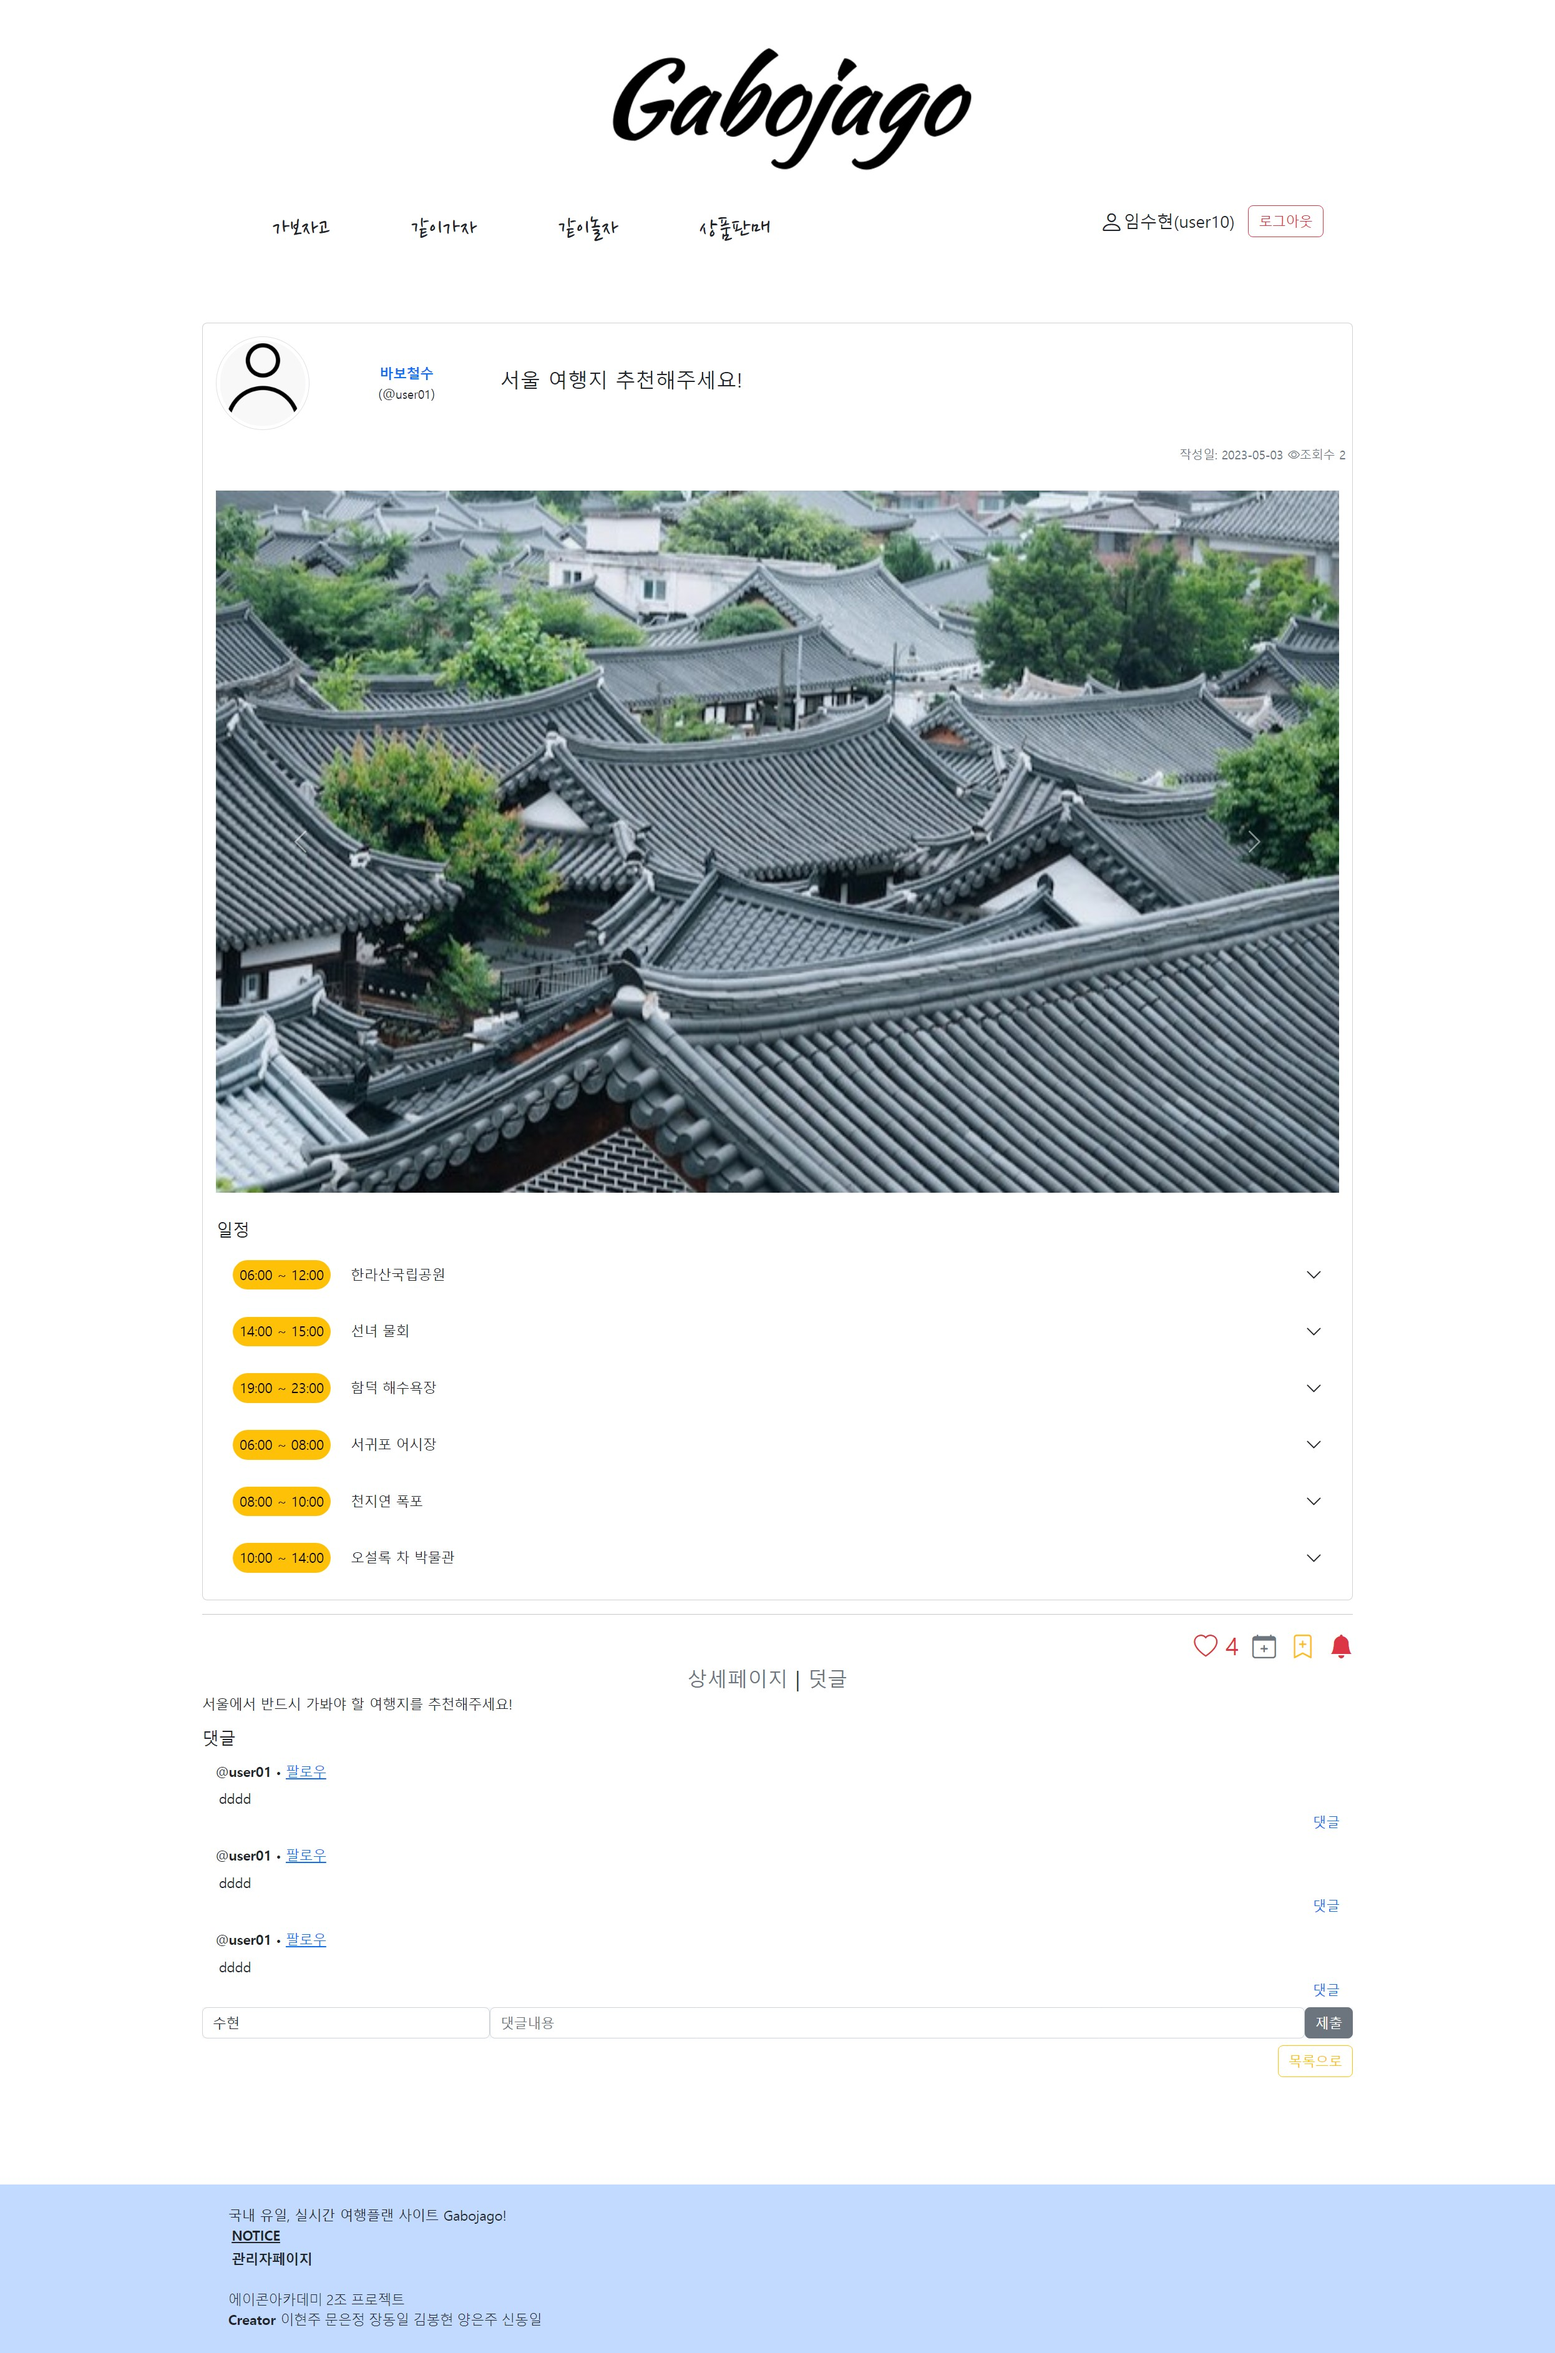
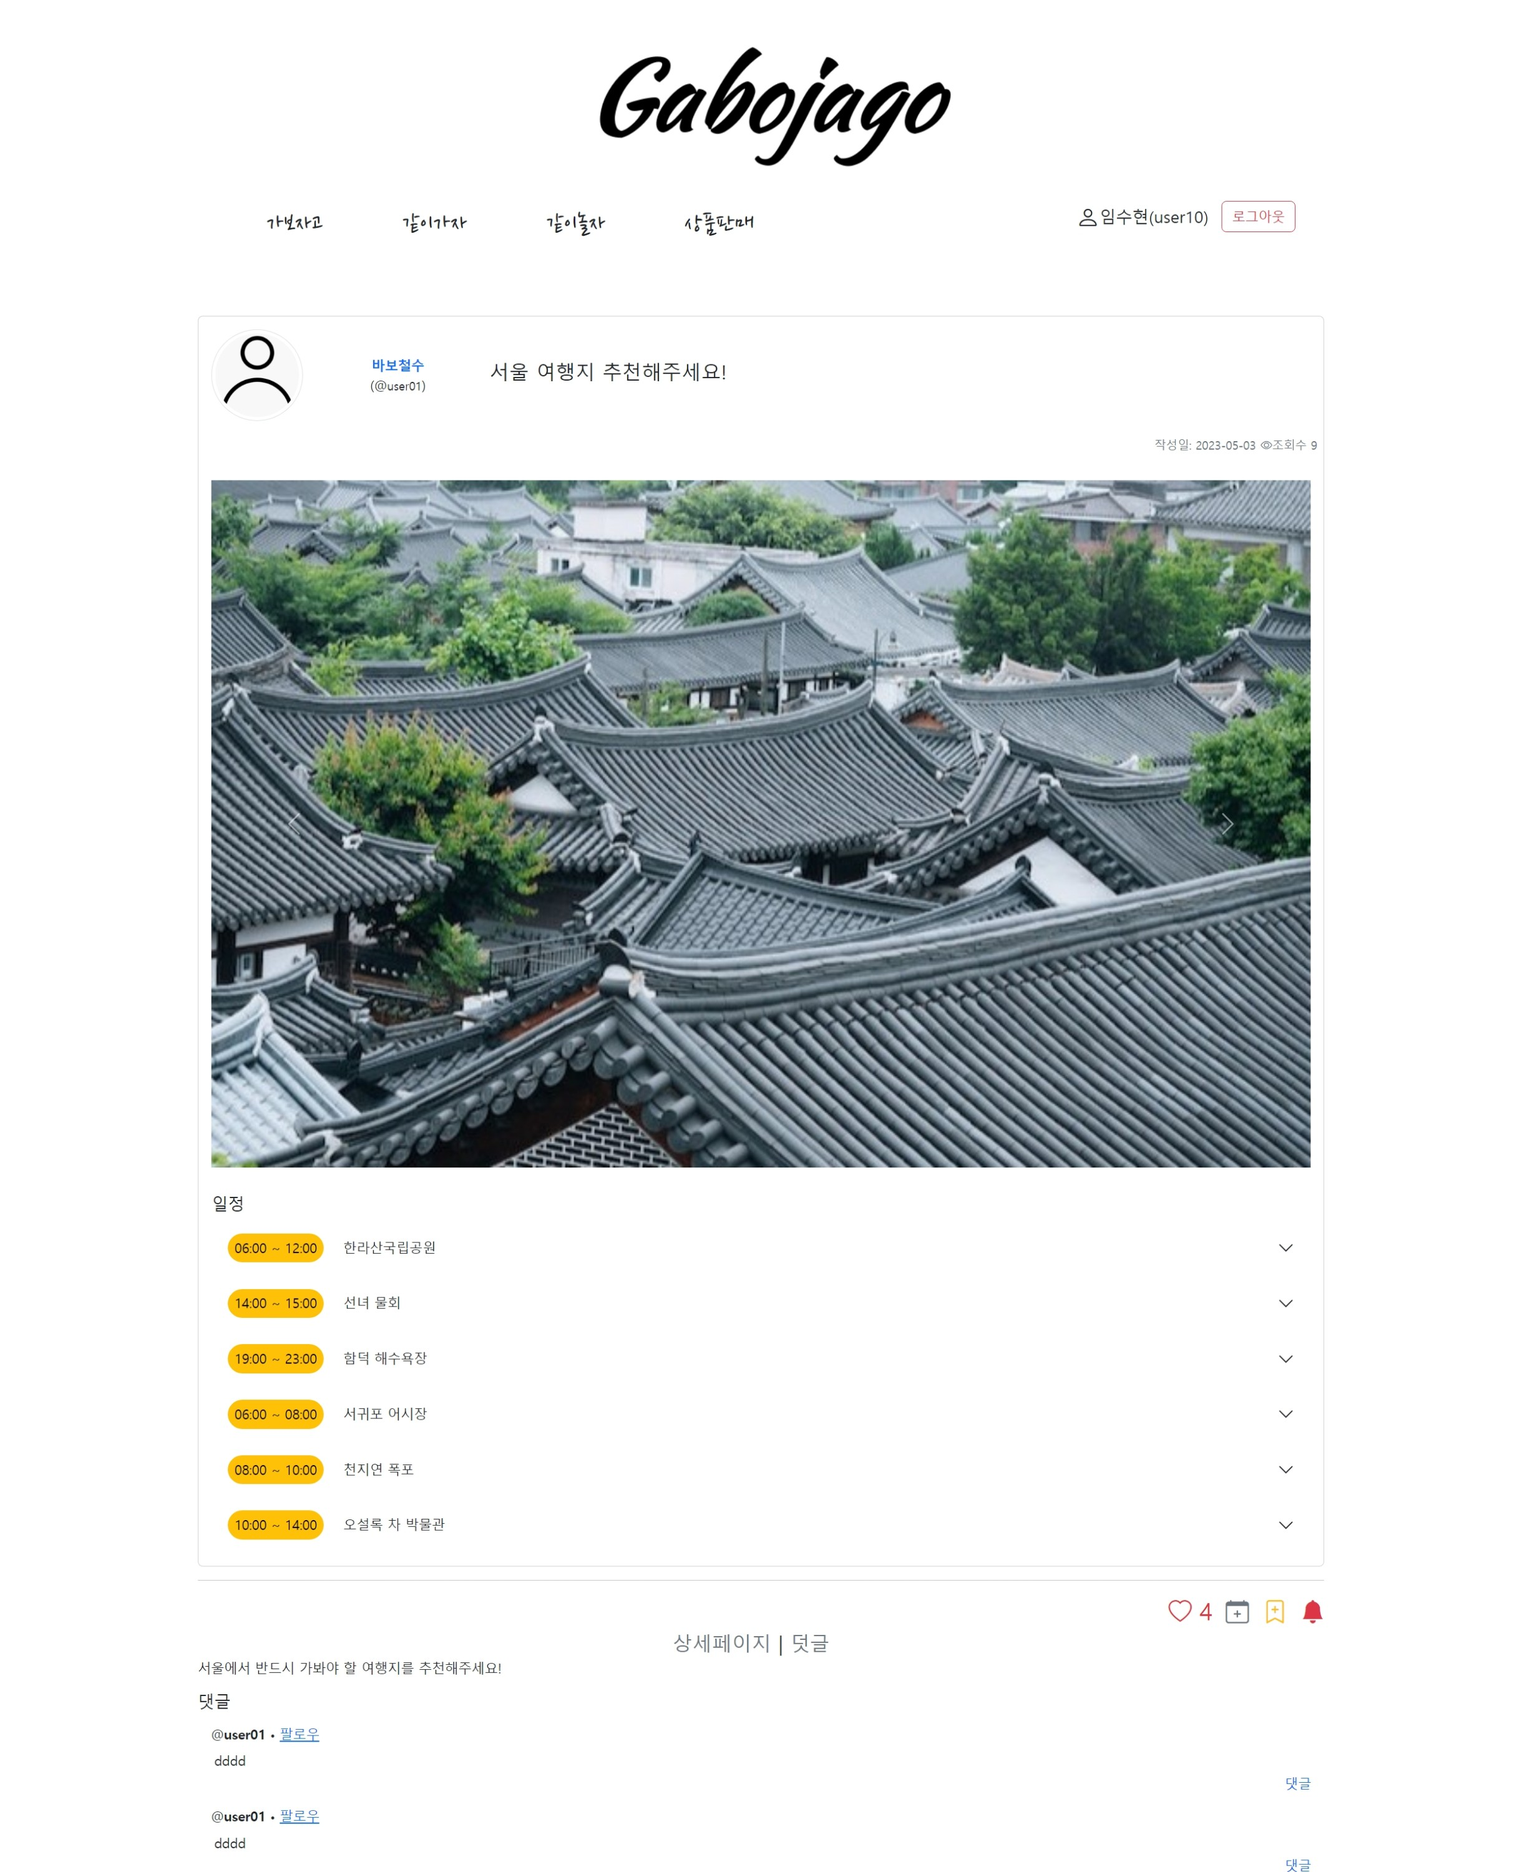
project image_slider SIZE UPDATE

diff --git a/build/resources/main/static/js/main/main.js b/build/resources/main/static/js/main/main.js
@@ -77,3 +77,87 @@ document.addEventListener("DOMContentLoaded", () => {
     return response;
   }
 });
+
+// 이미지 슬라이드 함수
+
+ document.addEventListener("DOMContentLoaded", function () {
+     const slider = document.querySelector(".slider");
+     const prevButton = document.getElementById("prev");
+     const nextButton = document.getElementById("next");
+     const currentPageElement = document.getElementById("currentPage");
+     const totalPagesElement = document.getElementById("totalPages");
+     let imageWidth; // 이미지의 너비
+     let position = 0;
+     let currentPage = 1; // 현재 페이지
+     const totalPages = slider.children.length; // 총 페이지 수
+
+     // 함수를 사용하여 이미지 너비 설정
+     function setImageWidth() {
+         if (window.innerWidth < 768) {
+             // 모바일 화면
+             imageWidth = 274.79;
+         } else {
+             // 데스크톱 화면
+             imageWidth = 390.58;
+         }
+     }
+
+     // 초기 이미지 너비 설정
+     setImageWidth();
+
+     // 현재 페이지와 총 페이지 업데이트
+     function updatePageInfo() {
+         currentPageElement.textContent = currentPage;
+         totalPagesElement.textContent = totalPages;
+     }
+
+     // 다음 이미지로 이동
+     function nextSlide() {
+         if (position > -(imageWidth * (totalPages - 2))) {
+             position -= imageWidth;
+             slider.style.transform = `translateX(${position}px)`;
+             currentPage += 1;
+             updatePageInfo();
+         } else {
+             // 마지막 요소에서 다음 버튼 클릭 시 첫 번째 요소로 이동
+             position = 0;
+             slider.style.transform = `translateX(${position}px)`;
+             currentPage = 1;
+             updatePageInfo();
+         }
+     }
+
+     // 이전 이미지로 이동
+     function prevSlide() {
+         if (position < 0) {
+             position += imageWidth;
+             slider.style.transform = `translateX(${position}px)`;
+             currentPage -= 1;
+             updatePageInfo();
+         } else {
+             // 첫 번째 요소에서 이전 버튼 클릭 시 마지막 요소로 이동
+             position = -(imageWidth * (totalPages - 2));
+             slider.style.transform = `translateX(${position}px)`;
+             currentPage = totalPages;
+             updatePageInfo();
+         }
+     }
+
+     // 윈도우 크기가 변경될 때 이미지 너비 다시 설정
+     window.addEventListener("resize", setImageWidth);
+
+     // 이전 버튼 클릭 시
+     prevButton.addEventListener("click", function () {
+         prevSlide();
+     });
+
+     // 다음 버튼 클릭 시
+     nextButton.addEventListener("click", function () {
+         nextSlide();
+     });
+
+     // 초기 페이지 정보 업데이트
+     updatePageInfo();
+ });
+
+

diff --git a/src/main/resources/static/js/main/main.js b/src/main/resources/static/js/main/main.js
@@ -84,32 +84,46 @@ document.addEventListener("DOMContentLoaded", () => {
      const slider = document.querySelector(".slider");
      const prevButton = document.getElementById("prev");
      const nextButton = document.getElementById("next");
+     const currentPageElement = document.getElementById("currentPage");
+     const totalPagesElement = document.getElementById("totalPages");
      let imageWidth; // 이미지의 너비
      let position = 0;
+     let currentPage = 1; // 현재 페이지
+     const totalPages = slider.children.length; // 총 페이지 수
 
      // 함수를 사용하여 이미지 너비 설정
      function setImageWidth() {
          if (window.innerWidth < 768) {
              // 모바일 화면
-             imageWidth = 275.4;
+             imageWidth = 274.79;
          } else {
              // 데스크톱 화면
-             imageWidth = 622;
+             imageWidth = 390.58;
          }
      }
 
      // 초기 이미지 너비 설정
      setImageWidth();
 
+     // 현재 페이지와 총 페이지 업데이트
+     function updatePageInfo() {
+         currentPageElement.textContent = currentPage;
+         totalPagesElement.textContent = totalPages;
+     }
+
      // 다음 이미지로 이동
      function nextSlide() {
-         if (position > -(imageWidth * (slider.children.length - 2))) {
+         if (position > -(imageWidth * (totalPages - 2))) {
              position -= imageWidth;
              slider.style.transform = `translateX(${position}px)`;
+             currentPage += 1;
+             updatePageInfo();
          } else {
              // 마지막 요소에서 다음 버튼 클릭 시 첫 번째 요소로 이동
              position = 0;
              slider.style.transform = `translateX(${position}px)`;
+             currentPage = 1;
+             updatePageInfo();
          }
      }
 
@@ -118,10 +132,14 @@ document.addEventListener("DOMContentLoaded", () => {
          if (position < 0) {
              position += imageWidth;
              slider.style.transform = `translateX(${position}px)`;
+             currentPage -= 1;
+             updatePageInfo();
          } else {
              // 첫 번째 요소에서 이전 버튼 클릭 시 마지막 요소로 이동
-             position = -(imageWidth * (slider.children.length - 2));
+             position = -(imageWidth * (totalPages - 2));
              slider.style.transform = `translateX(${position}px)`;
+             currentPage = totalPages;
+             updatePageInfo();
          }
      }
 
@@ -137,5 +155,9 @@ document.addEventListener("DOMContentLoaded", () => {
      nextButton.addEventListener("click", function () {
          nextSlide();
      });
+
+     // 초기 페이지 정보 업데이트
+     updatePageInfo();
  });
+
 

diff --git a/src/main/resources/static/css/main/main.css b/src/main/resources/static/css/main/main.css
@@ -52,10 +52,10 @@ li { list-style: none; margin: 20px 50px; padding-top: 10px; }
 
 
 /*이미지 슬라이드 */
-.slider-container{overflow: hidden;position: relative;}
-.slider-container .slider{width: 100%;display: flex;transition: transform 0.5s ease-in-out;}
-.image_box .slider-button{text-align: center;margin: 10px;}
-
+.slider-container{width: 390.58px;overflow: hidden;position: relative;}
+.slider-container .slider{width: 100%;height:500px;display: flex;transition: transform 0.5s ease-in-out;}
+.image_box .slider-button{text-align: center;margin: 30px;}
+.slider-button i:hover {cursor: pointer;}
 
 @media screen and (max-width:768px) { html{ scroll-behavior: smooth; }
 .project{display:block;width:90%;box-shadow: 0.5rem 0.5rem 0.5rem black;}
@@ -66,6 +66,8 @@ li { list-style: none; margin: 20px 50px; padding-top: 10px; }
 .project .content .content_box div:first-child {margin-top:1rem;}
 .project .content .content_box .description .sub_title{display: block;text-align:start;}
 
+/*이미지 슬라이드*/
+.slider-container{    width: 100%;}
 .skills{display:block;height:auto;padding:10px;}
 .skills div{align-items:normal;box-shadow: 0.5rem 0.5rem 0.5rem 0 black;margin: 2rem auto;width:300px}
 .skills h1{position:relative;margin:auto;padding:5px;text-align:center;border-bottom-width: 5px;border-bottom-style: solid;width: 50%;}

diff --git a/src/main/resources/templates/main/main.html b/src/main/resources/templates/main/main.html
@@ -151,17 +151,17 @@
                         <img src="/img/project/gabojago/같이놀자메인.JPG" alt="">
                         <img src="/img/project/gabojago/같이놀자.JPG" alt="">
                         <img src="/img/project/gabojago/상품판매메인.JPG" alt="">
-                        <img src="/img/project/gabojago/상품판매글JPG" alt="">
                         <img src="/img/project/gabojago/상품판매결제.JPG" alt="">
                         <img src="/img/project/gabojago/마이페이지.JPG" alt="">
                     </div>
 
                 </div>
-                <div class="slider-button" >
-                    <button id="prev">이전</button>
-                    <button id="next">다음</button>
-
+                <div class="slider-button">
+                    <i class="fas fa-chevron-left" id="prev"></i>
+                    <span id="currentPage">1</span>/<span id="totalPages">5</span>
+                    <i class="fas fa-chevron-right" id="next"></i>
                 </div>
+
             </div>
             <div class="content_box">
                 <div>
